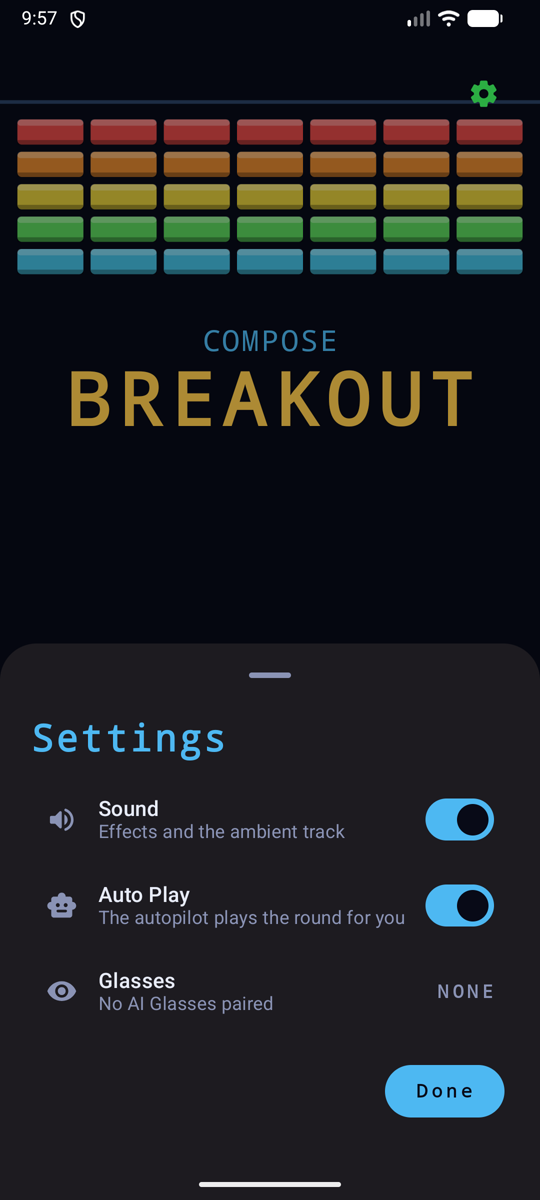
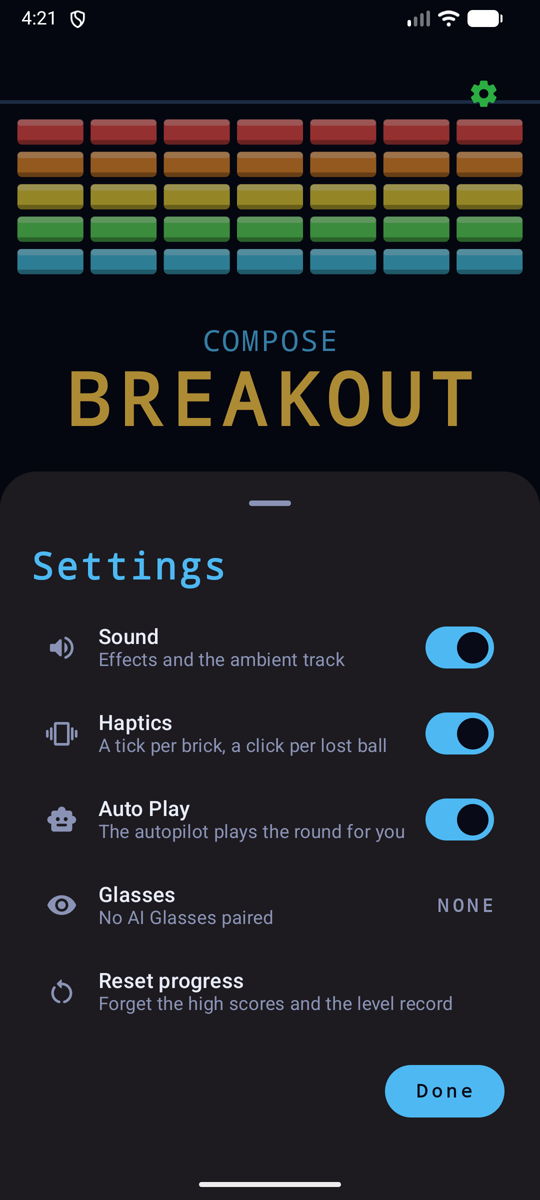
Settings: a Reset progress row
With the level record and the high-score podium both persisted, there
was no way to start over short of clearing the app's data. A new row
at the bottom of Settings forgets both, after a dialog that says what
goes and that there is no undo; Cancel keeps everything. An instrumented
test takes both paths (passes on an Android emulator). The settings
previews grow taller so the Done button stays in frame.

diff --git a/app/src/main/java/com/jpcottin/composebreakout/ui/SettingsSheet.kt b/app/src/main/java/com/jpcottin/composebreakout/ui/SettingsSheet.kt
@@ -18,6 +18,12 @@ import androidx.compose.material.icons.automirrored.rounded.VolumeUp
 import androidx.compose.material3.Button
 import androidx.compose.material3.Icon
 import androidx.compose.material3.ModalBottomSheet
+import androidx.compose.material3.AlertDialog
+import androidx.compose.material3.TextButton
+import androidx.compose.material.icons.rounded.RestartAlt
+import androidx.compose.runtime.getValue
+import androidx.compose.runtime.mutableStateOf
+import androidx.compose.runtime.setValue
 import androidx.compose.material3.MaterialTheme
 import androidx.compose.material3.Surface
 import androidx.compose.material3.Switch
@@ -52,12 +58,13 @@ fun SettingsSheet(
     glasses: GlassesState = GlassesState.NONE,
     onGlassesToggle: () -> Unit = {},
     onHapticsChange: (Boolean) -> Unit = {},
+    onResetProgress: () -> Unit = {},
 ) {
     val sheetState = rememberModalBottomSheetState(skipPartiallyExpanded = true)
     ModalBottomSheet(onDismissRequest = onDismiss, sheetState = sheetState) {
         SettingsContent(
             settings, onSoundChange, onAutoPlayChange, onDismiss,
-            glasses = glasses, onGlassesToggle = onGlassesToggle, onHapticsChange = onHapticsChange,
+            glasses = glasses, onGlassesToggle = onGlassesToggle, onHapticsChange = onHapticsChange, onResetProgress = onResetProgress,
         )
     }
 }
@@ -75,11 +82,12 @@ fun SettingsDialog(
     glasses: GlassesState = GlassesState.NONE,
     onGlassesToggle: () -> Unit = {},
     onHapticsChange: (Boolean) -> Unit = {},
+    onResetProgress: () -> Unit = {},
 ) {
     Dialog(onDismissRequest = onDismiss) {
         SettingsCard(
             settings, onSoundChange, onAutoPlayChange, onDismiss,
-            glasses = glasses, onGlassesToggle = onGlassesToggle, onHapticsChange = onHapticsChange,
+            glasses = glasses, onGlassesToggle = onGlassesToggle, onHapticsChange = onHapticsChange, onResetProgress = onResetProgress,
         )
     }
 }
@@ -95,6 +103,7 @@ fun SettingsCard(
     glasses: GlassesState = GlassesState.NONE,
     onGlassesToggle: () -> Unit = {},
     onHapticsChange: (Boolean) -> Unit = {},
+    onResetProgress: () -> Unit = {},
 ) {
     Surface(
         modifier = modifier.width(480.dp),
@@ -105,7 +114,7 @@ fun SettingsCard(
         SettingsContent(
             settings, onSoundChange, onAutoPlayChange, onDone,
             modifier = Modifier.padding(top = 16.dp),
-            glasses = glasses, onGlassesToggle = onGlassesToggle, onHapticsChange = onHapticsChange,
+            glasses = glasses, onGlassesToggle = onGlassesToggle, onHapticsChange = onHapticsChange, onResetProgress = onResetProgress,
         )
     }
 }
@@ -121,6 +130,7 @@ fun SettingsContent(
     glasses: GlassesState = GlassesState.NONE,
     onGlassesToggle: () -> Unit = {},
     onHapticsChange: (Boolean) -> Unit = {},
+    onResetProgress: () -> Unit = {},
 ) {
     Column(modifier = modifier.fillMaxWidth().padding(horizontal = 24.dp, vertical = 8.dp)) {
         Text(
@@ -151,6 +161,7 @@ fun SettingsContent(
             onCheckedChange = onAutoPlayChange,
         )
         GlassesRow(glasses, onGlassesToggle)
+        ResetRow(onResetProgress)
         Spacer(Modifier.height(16.dp))
         val doneInteraction = remember { MutableInteractionSource() }
         Button(
@@ -196,6 +207,51 @@ private fun SettingRow(
             Text(hint, style = MaterialTheme.typography.bodyMedium, color = MaterialTheme.colorScheme.onSurfaceVariant)
         }
         Switch(checked = checked, onCheckedChange = null)
+    }
+}
+
+/** Clear the high scores and the level record, after a word of warning. */
+@Composable
+private fun ResetRow(onReset: () -> Unit) {
+    var asking by remember { mutableStateOf(false) }
+    val interaction = remember { MutableInteractionSource() }
+    val shape = RoundedCornerShape(12.dp)
+    Row(
+        modifier = Modifier
+            .fillMaxWidth()
+            .focusRing(interaction, shape)
+            .clickable(
+                interactionSource = interaction,
+                indication = null,
+                role = Role.Button,
+                onClick = { asking = true },
+            )
+            .padding(horizontal = 8.dp, vertical = 12.dp),
+        verticalAlignment = Alignment.CenterVertically,
+    ) {
+        Icon(Icons.Rounded.RestartAlt, contentDescription = null, tint = MaterialTheme.colorScheme.onSurfaceVariant)
+        Spacer(Modifier.width(16.dp))
+        Column(Modifier.weight(1f)) {
+            Text(stringResource(R.string.settings_reset), style = MaterialTheme.typography.titleMedium)
+            Text(
+                text = stringResource(R.string.settings_reset_hint),
+                style = MaterialTheme.typography.bodyMedium,
+                color = MaterialTheme.colorScheme.onSurfaceVariant,
+            )
+        }
+    }
+    if (asking) {
+        AlertDialog(
+            onDismissRequest = { asking = false },
+            title = { Text(stringResource(R.string.reset_confirm_title)) },
+            text = { Text(stringResource(R.string.reset_confirm_text)) },
+            confirmButton = {
+                TextButton(onClick = { asking = false; onReset() }) { Text(stringResource(R.string.reset_confirm_yes)) }
+            },
+            dismissButton = {
+                TextButton(onClick = { asking = false }) { Text(stringResource(R.string.cancel)) }
+            },
+        )
     }
 }
 

diff --git a/app/src/screenshotTest/kotlin/com/jpcottin/composebreakout/PreviewScreenshotTests.kt b/app/src/screenshotTest/kotlin/com/jpcottin/composebreakout/PreviewScreenshotTests.kt
@@ -218,7 +218,7 @@ fun GlassesTitleScreenshot() = Screen(titleGame(640f / 360f).apply { controlMode
 fun OnGlassesScreenshot() = Screen(handedOffGame(PHONE))
 
 @PreviewTest
-@Preview(name = "Settings glasses paired", widthDp = 400, heightDp = 440, showBackground = true)
+@Preview(name = "Settings glasses paired", widthDp = 400, heightDp = 520, showBackground = true)
 @Composable
 fun SettingsGlassesPairedScreenshot() {
     BreakoutTheme {
@@ -232,7 +232,7 @@ fun SettingsGlassesPairedScreenshot() {
 }
 
 @PreviewTest
-@Preview(name = "Settings glasses active", widthDp = 400, heightDp = 440, showBackground = true)
+@Preview(name = "Settings glasses active", widthDp = 400, heightDp = 520, showBackground = true)
 @Composable
 fun SettingsGlassesActiveScreenshot() {
     BreakoutTheme {
@@ -248,7 +248,7 @@ fun SettingsGlassesActiveScreenshot() {
 // ── Settings ─────────────────────────────────────────────────────────────────
 
 @PreviewTest
-@Preview(name = "Settings card", widthDp = 640, heightDp = 480, showBackground = true, backgroundColor = 0xFF080A17)
+@Preview(name = "Settings card", widthDp = 640, heightDp = 560, showBackground = true, backgroundColor = 0xFF080A17)
 @Composable
 fun SettingsCardScreenshot() {
     BreakoutTheme {
@@ -263,7 +263,7 @@ fun SettingsCardScreenshot() {
 }
 
 @PreviewTest
-@Preview(name = "Settings", widthDp = 400, heightDp = 440, showBackground = true)
+@Preview(name = "Settings", widthDp = 400, heightDp = 520, showBackground = true)
 @Composable
 fun SettingsScreenshot() {
     BreakoutTheme {

diff --git a/app/src/androidTest/java/com/jpcottin/composebreakout/GameScreenTest.kt b/app/src/androidTest/java/com/jpcottin/composebreakout/GameScreenTest.kt
@@ -16,6 +16,7 @@ import androidx.compose.ui.test.performSemanticsAction
 import androidx.compose.ui.semantics.SemanticsActions
 import androidx.lifecycle.ViewModelProvider
 import com.jpcottin.composebreakout.engine.Game
+import com.jpcottin.composebreakout.engine.HighScore
 import com.jpcottin.composebreakout.ui.GameViewModel
 import org.junit.Assert.assertEquals
 import org.junit.Assert.assertFalse
@@ -207,6 +208,27 @@ class GameScreenTest {
         assertEquals(Game.State.PLAYING, game.state)
         assertEquals(2, game.level)
         composeTestRule.onNodeWithContentDescription("Level 2").assertIsDisplayed()
+    }
+
+    @Test
+    fun resetProgressForgetsTheScoresAndTheLevelRecord() {
+        frames(5)
+        val game = game()
+        scenario.onActivity {
+            game.furthestLevel = 4
+            game.restoreHighScores(listOf(HighScore(900, 2)))
+        }
+        composeTestRule.onNodeWithContentDescription("Settings").performClick()
+        composeTestRule.mainClock.autoAdvance = true
+        composeTestRule.onNodeWithText("Reset progress").performClick()
+        composeTestRule.onNodeWithText("Cancel").performClick()                 // thought better of it
+        composeTestRule.waitForIdle()
+        assertEquals(4, game.furthestLevel)
+        composeTestRule.onNodeWithText("Reset progress").performClick()
+        composeTestRule.onNodeWithText("Reset").performClick()
+        composeTestRule.waitForIdle()
+        assertEquals(1, game.furthestLevel)
+        assertTrue(game.highScores.isEmpty())
     }
 
     @Test

diff --git a/app/src/main/java/com/jpcottin/composebreakout/ui/GameScreen.kt b/app/src/main/java/com/jpcottin/composebreakout/ui/GameScreen.kt
@@ -120,6 +120,7 @@ fun GameScreen(viewModel: GameViewModel) {
             onSoundChange = viewModel::setSoundEnabled,
             onAutoPlayChange = viewModel::setAutoPlay,
             onHapticsChange = viewModel::setHaptics,
+            onResetProgress = viewModel::resetProgress,
             onDismiss = { showSettings = false },
             glasses = glassesState,
             onGlassesToggle = onGlassesToggle,
@@ -128,6 +129,7 @@ fun GameScreen(viewModel: GameViewModel) {
             onSoundChange = viewModel::setSoundEnabled,
             onAutoPlayChange = viewModel::setAutoPlay,
             onHapticsChange = viewModel::setHaptics,
+            onResetProgress = viewModel::resetProgress,
             onDismiss = { showSettings = false },
             glasses = glassesState,
             onGlassesToggle = onGlassesToggle,

diff --git a/app/src/main/java/com/jpcottin/composebreakout/ui/GameViewModel.kt b/app/src/main/java/com/jpcottin/composebreakout/ui/GameViewModel.kt
@@ -144,6 +144,13 @@ class GameViewModel(
         if (game.state == Game.State.TITLE) game.tap()
     }
 
+    /** Forget the high scores and the furthest level, in the game and on disk. */
+    fun resetProgress() {
+        game.restoreHighScores(emptyList())
+        game.furthestLevel = 1
+        viewModelScope.launch { store.edit { it.remove(KEY_HIGH_SCORES); it.remove(KEY_FURTHEST_LEVEL) } }
+    }
+
     override fun onCleared() {
         audio.release()
     }

diff --git a/README.md b/README.md
@@ -26,7 +26,7 @@ with a hand-written Vulkan renderer.
 
 | Settings | Foldable, half-opened: the control surface below the hinge | The level pick |
 |---|---|---|
-| <img src="docs/screenshots/phone-settings_auto.png" width="270" alt="Settings sheet: Sound on, Auto Play on, Glasses row reading NONE"> | <img src="docs/screenshots/foldable-tabletop.png" width="420" alt="Tabletop posture: the lane in the upper half, SLIDE HERE TO STEER and the paddle marker in the lower half"> | <img src="docs/screenshots/phone-level-pick.png" width="270" alt="Title screen after a run: the level pick, LEVEL 1 between two arrows, above Tap to play"> |
+| <img src="docs/screenshots/phone-settings_auto.png" width="270" alt="Settings sheet: Sound, Haptics and Auto Play on, Glasses row reading NONE, Reset progress at the bottom"> | <img src="docs/screenshots/foldable-tabletop.png" width="420" alt="Tabletop posture: the lane in the upper half, SLIDE HERE TO STEER and the paddle marker in the lower half"> | <img src="docs/screenshots/phone-level-pick.png" width="270" alt="Title screen after a run: the level pick, LEVEL 1 between two arrows, above Tap to play"> |
 
 | TV, 1080p, the lane in the middle | AI Glasses: black background, no gear |
 |---|---|
@@ -62,7 +62,8 @@ emulator with the `autoplay` launch extra.
   surface.
 - **Start where you got to:** the title screen offers any level reached
   before on this device — the arrows, or left and right on a D-pad or
-  keyboard, pick it; the record is kept across launches.
+  keyboard, pick it; the record is kept across launches. Settings has a
+  Reset progress row that forgets it along with the high scores.
 - **Pause:** a round in flight freezes when the screen goes away (the app
   goes to the background, Settings opens), on Back, or on P, Escape or a
   remote's play/pause button, and waits for a tap — PAUSED,
